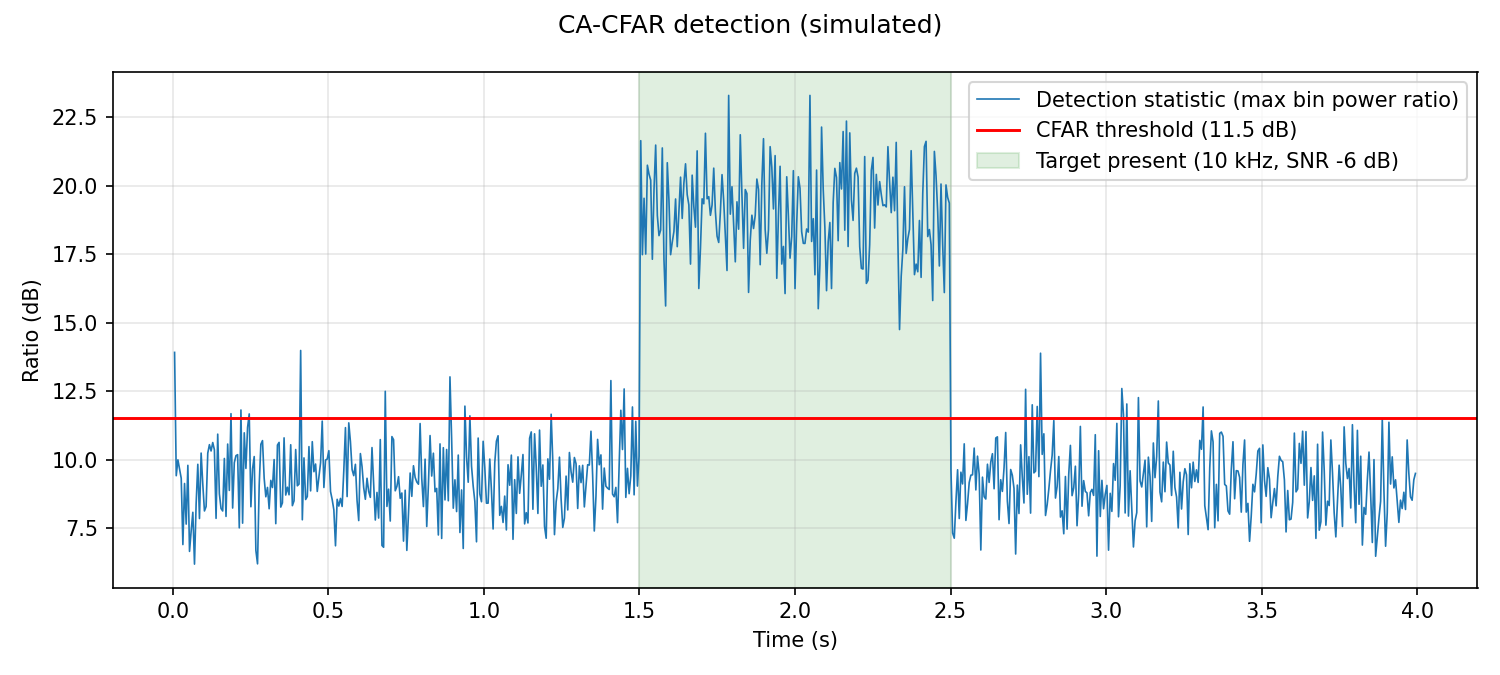
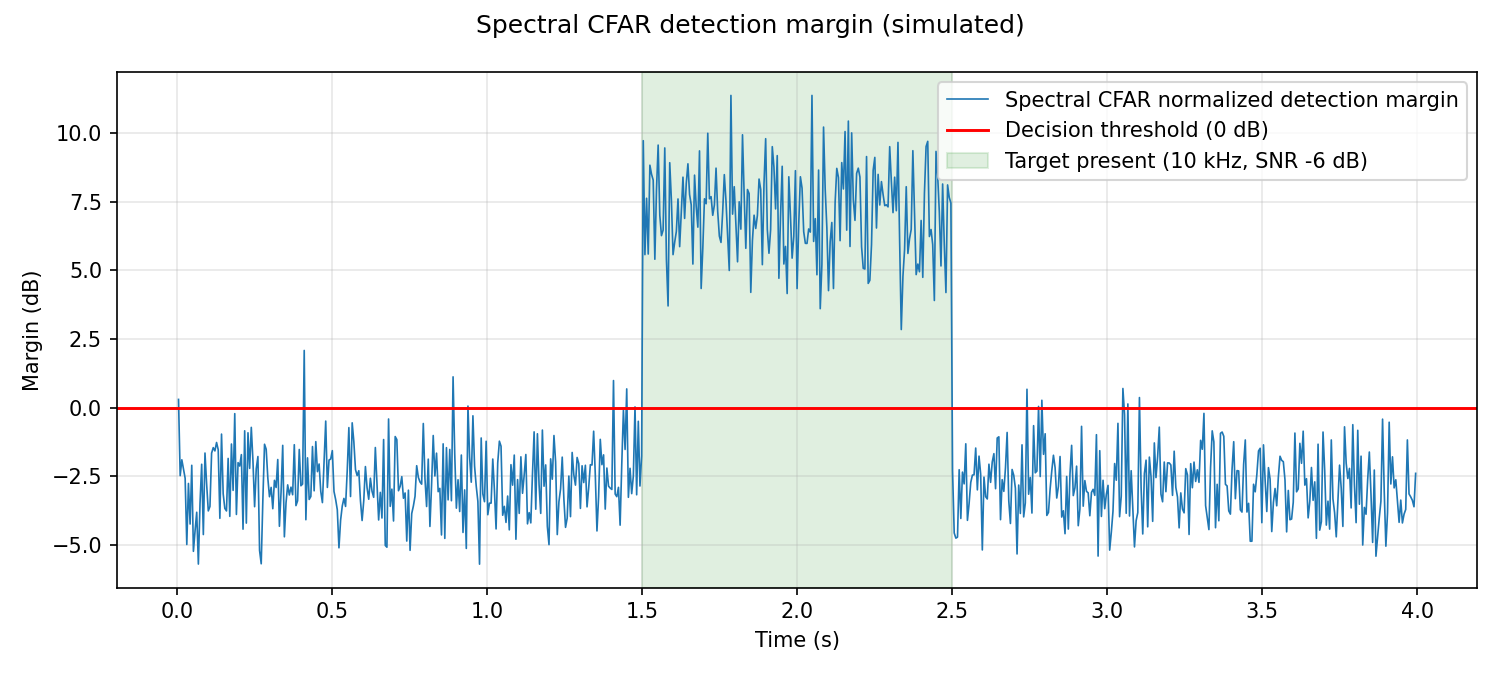
fix: 校正仿真信噪比与CFAR统计口径

diff --git a/run_demo_cfar.py b/run_demo_cfar.py
@@ -43,46 +43,64 @@ def main() -> None:
     t, x = make_scene(-6.0, True, rng)
     alarms, dbg = cfar_detect(x, FS, pfa=1e-2)
     fig, ax = plt.subplots(figsize=(10, 4.5))
-    ax.plot(dbg["t"], dbg["stat"], lw=0.8, label="Detection statistic (max bin power ratio)")
-    ax.axhline(dbg["th_db"], color="r", lw=1.4,
-               label=f"CFAR threshold ({dbg['th_db']:.1f} dB)")
+    ax.plot(dbg["t"], dbg["stat"], lw=0.8,
+            label="Spectral CFAR normalized detection margin")
+    ax.axhline(dbg["th_db"], color="r", lw=1.4, label="Decision threshold (0 dB)")
     ax.axvspan(1.5, 2.5, color="green", alpha=0.12, label="Target present (10 kHz, SNR -6 dB)")
-    ax.set(xlabel="Time (s)", ylabel="Ratio (dB)")
+    ax.set(xlabel="Time (s)", ylabel="Margin (dB)")
     ax.grid(alpha=0.3)
     ax.legend()
-    fig.suptitle("CA-CFAR detection (simulated)")
+    fig.suptitle("Spectral CFAR detection margin (simulated)")
     fig.tight_layout()
     p1 = os.path.join(OUT_DIR, "cfar_scene.png")
     fig.savefig(p1, dpi=150)
     plt.close(fig)
     print(f"场景检出告警数：{len(alarms)}")
     for a in alarms:
-        print(f"  告警 {a['t_start']:.2f}s–{a['t_end']:.2f}s  估计SNR {a['snr_est']:.1f} dB")
+        print(f"  告警 {a['t_start']:.2f}s–{a['t_end']:.2f}s  "
+              f"频谱检测裕量 {a['detection_stat_db']:.1f} dB")
 
-    # 实验 2：检测率/虚警率 vs SNR（蒙特卡洛）
+    # 实验 2：检测率与三种虚警口径；无目标场景与有目标场景分开统计。
     snrs = [-15, -12, -10, -8, -6, -3]
-    pds, pfas = [], []
+    pds, scene_pfas, frame_pfas = [], [], []
     trials = 40
+    scene_duration = 4.0
     for snr in snrs:
-        det, fa = 0, 0
+        det, scene_fa = 0, 0
+        false_frames, total_frames, false_alarms = 0, 0, 0
         for _ in range(trials):
             _, x1 = make_scene(snr, True, rng)
             a1, _ = cfar_detect(x1, FS, pfa=1e-2)
             det += int(any(a["t_start"] < 2.6 and a["t_end"] > 1.4 for a in a1))
             _, x0 = make_scene(snr, False, rng)
-            a0, _ = cfar_detect(x0, FS, pfa=1e-2)
-            fa += int(len(a0) > 0)
+            a0, d0 = cfar_detect(x0, FS, pfa=1e-2)
+            scene_fa += int(len(a0) > 0)
+            false_alarms += len(a0)
+            false_frames += int(np.count_nonzero(d0["frame_hit"]))
+            total_frames += len(d0["frame_hit"])
         pds.append(det / trials)
-        pfas.append(fa / trials)
-        print(f"SNR {snr:+3d} dB | 检测率 {det/trials:.2f} | 虚警率 {fa/trials:.2f}")
+        scene_pfas.append(scene_fa / trials)
+        frame_pfas.append(false_frames / total_frames)
+        alarms_per_hour = false_alarms / (trials * scene_duration) * 3600.0
+        print(f"SNR {snr:+3d} dB | 检测率 {det/trials:.2f} | "
+              f"场景级虚警概率 {scene_fa/trials:.2f} | "
+              f"帧级虚警率 {false_frames/total_frames:.5f} | "
+              f"虚警 {alarms_per_hour:.1f} 次/小时")
 
-    fig, ax = plt.subplots(figsize=(8, 4.5))
-    ax.plot(snrs, pds, "o-", label="Probability of detection")
-    ax.plot(snrs, pfas, "s--", label="False alarm rate (no-target scenes)")
-    ax.axhline(0.01, color="r", ls=":", alpha=0.6, label="Design Pfa = 0.01")
-    ax.set(xlabel="SNR (dB)", ylabel="Probability", ylim=(-0.03, 1.05))
-    ax.grid(alpha=0.3)
-    ax.legend()
+    fig, axes = plt.subplots(1, 2, figsize=(12, 4.5))
+    axes[0].plot(snrs, pds, "o-", label="Probability of detection")
+    axes[0].plot(snrs, scene_pfas, "s--", label="Scene false-alarm probability")
+    axes[0].set(xlabel="SNR (dB)", ylabel="Probability", ylim=(-0.03, 1.05),
+                title="Event and scene level")
+    axes[1].plot(snrs, frame_pfas, "o-", color="tab:purple",
+                 label="Measured frame false-alarm rate")
+    axes[1].axhline(0.01, color="r", ls=":", alpha=0.6,
+                    label="Design frame Pfa = 0.01")
+    axes[1].set(xlabel="SNR (dB)", ylabel="Frame false-alarm rate",
+                title="Frame level")
+    for ax in axes:
+        ax.grid(alpha=0.3)
+        ax.legend()
     fig.suptitle(f"CFAR performance, Monte Carlo x{trials} (simulated)")
     fig.tight_layout()
     p2 = os.path.join(OUT_DIR, "cfar_pd_pfa.png")

diff --git a/src/detect/cfar.py b/src/detect/cfar.py
@@ -7,9 +7,10 @@
 为什么不沿时间做 CFAR：持续型目标（如持续的舰船线谱）会被时间参考窗
 "吸收"进背景，导致检不出；沿频率做则不受目标持续时间影响。
 
-虚警率分配：帧级虚警率 pfa，F 个参与检测的频点，
-单频点虚警率 pfa_cell = pfa / F（独立近似）。
+虚警率分配：频谱与能量通道各占帧级预算 pfa/2；频谱通道有 F 个频点，
+单频点预算 pfa_cell = (pfa/2) / F，按并集上界分配，不假设频点相互独立。
 门限系数 α = N·(pfa_cell^(-1/N) - 1)，N 为参考频点数。
+该公式仍采用平方律单元服从指数分布的 CA-CFAR 近似，实际虚警率需实验校准。
 """
 import numpy as np
 
@@ -63,15 +64,18 @@ def cfar_detect(x_mono: np.ndarray, fs: float, frame_len: int = 1024,
     谱线因另一侧窗口越界而被直接跳过。至少连续 min_frames 帧才形成告警。
 
     返回 (alarms, debug)：
-        alarms: list[dict]，含 t_start/t_end/snr_est（秒、dB）
-        debug:  dict(t, stat, th_db)，stat 为每帧最大频点功率比（dB）
+        alarms: list[dict]，含 t_start/t_end/detection_stat_db（秒、dB）
+        debug:  dict(t, stat, th_db, frame_hit)；stat 为归一化检测裕量，
+                统一以 0 dB 为判决门限，frame_hit 为成形告警前的原始帧命中。
     """
     P, freqs, t = stft_power(x_mono, frame_len, hop, fs)
     band = (freqs >= f_range[0]) & (freqs <= f_range[1])
     Pb = P[band, :]                                  # (Fb, T)
     Fb, T = Pb.shape
 
-    pfa_cell = pfa / Fb
+    pfa_spectral = pfa / 2
+    pfa_energy = pfa / 2
+    pfa_cell = pfa_spectral / Fb
 
     # 沿频率估计背景；边缘频点保留可用的单侧参考窗，跳过 guard。
     C = np.concatenate([np.zeros((1, T)), np.cumsum(Pb, axis=0)], axis=0)
@@ -89,11 +93,12 @@ def cfar_detect(x_mono: np.ndarray, fs: float, frame_len: int = 1024,
         ratio = Pb / bg
         ratio[~np.isfinite(ratio)] = 0.0
     hit = (ratio > alpha[:, None]) & valid[:, None]
-    stat = 10 * np.log10(np.where(valid[:, None], ratio, 0.0).max(axis=0) + 1e-20)
+    margin = np.where(valid[:, None], ratio / alpha[:, None], 0.0)
+    stat = 10 * np.log10(margin.max(axis=0) + 1e-20)
 
     frame_hit = hit.any(axis=0)
-    # 宽带能量通道（虚警率预算对半分）
-    e_hit, _ = _energy_cfar_hits(Pb, pfa / 2)
+    # 两个通道各使用一半帧级虚警率预算，按并集上界控制总预算。
+    e_hit, _ = _energy_cfar_hits(Pb, pfa_energy)
     frame_hit = frame_hit | e_hit
     alarms = []
     i = 0
@@ -105,7 +110,7 @@ def cfar_detect(x_mono: np.ndarray, fs: float, frame_len: int = 1024,
             if j - i + 1 >= min_frames:
                 alarms.append(dict(
                     t_start=float(t[i]), t_end=float(t[j]),
-                    snr_est=float(np.max(stat[i:j + 1])),
+                    detection_stat_db=float(np.max(stat[i:j + 1])),
                 ))
             i = j + 1
         else:
@@ -116,8 +121,8 @@ def cfar_detect(x_mono: np.ndarray, fs: float, frame_len: int = 1024,
         if merged and a["t_start"] - merged[-1]["t_end"] <= merge_gap:
             m = merged[-1]
             m["t_end"] = a["t_end"]
-            m["snr_est"] = max(m["snr_est"], a["snr_est"])
+            m["detection_stat_db"] = max(m["detection_stat_db"], a["detection_stat_db"])
         else:
             merged.append(dict(a))
-    nominal_alpha = (2 * ref) * (pfa_cell ** (-1.0 / (2 * ref)) - 1.0)
-    return merged, dict(t=t, stat=stat, th_db=10 * np.log10(nominal_alpha))
+    return merged, dict(t=t, stat=stat, th_db=0.0, frame_hit=frame_hit.copy(),
+                        pfa_spectral=pfa_spectral, pfa_energy=pfa_energy)

diff --git a/tests/test_detection_pipeline.py b/tests/test_detection_pipeline.py
@@ -13,17 +13,59 @@ class DetectionPipelineTests(unittest.TestCase):
     def test_add_source_writes_late_event_at_requested_time(self):
         """晚于源信号时长的事件也必须真实写入目标时间窗。"""
         n = int(6.0 * FS)
-        x_all = np.zeros((4, n))
         rng = np.random.default_rng(3)
+        background = 0.5 * rng.standard_normal((4, n))
+        x_all = background.copy()
         sig = fish(duration=1.0, rng=rng)
         start = int(4.0 * FS)
 
         add_source(x_all, sig, bearing_deg=120.0, t0=4.0, snr_db=0.0, rng=rng)
 
-        written = x_all[:, start:start + len(sig)]
-        self.assertGreater(float(np.std(written)), 0.5)
-        self.assertEqual(int(np.count_nonzero(x_all[:, :start])), 0)
-        self.assertEqual(int(np.count_nonzero(x_all[:, start + len(sig):])), 0)
+        written = x_all[:, start:start + len(sig)] - background[:, start:start + len(sig)]
+        self.assertGreater(float(np.std(written)), 0.1)
+        np.testing.assert_array_equal(x_all[:, :start], background[:, :start])
+        np.testing.assert_array_equal(x_all[:, start + len(sig):],
+                                      background[:, start + len(sig):])
+
+    def test_add_source_matches_requested_snr(self):
+        """正负荷标称 SNR 都必须等于实际加入的信号/背景功率比。"""
+        for snr_db in (-6.0, 0.0, 6.0):
+            with self.subTest(snr_db=snr_db):
+                rng = np.random.default_rng(5)
+                n = int(3.0 * FS)
+                background = 0.5 * rng.standard_normal((4, n))
+                x_all = background.copy()
+                sig = fish(duration=1.0, rng=rng)
+                start = int(FS)
+
+                add_source(x_all, sig, 120.0, 1.0, snr_db, rng)
+
+                sl = slice(start, start + len(sig))
+                added_power = np.mean((x_all[:, sl] - background[:, sl]) ** 2)
+                noise_power = np.mean(background[:, sl] ** 2)
+                actual_snr_db = 10 * np.log10(added_power / noise_power)
+                self.assertAlmostEqual(actual_snr_db, snr_db, delta=0.05)
+
+    def test_cfar_exposes_detection_margin_and_frame_hits(self):
+        """检测输出使用统一裕量及原始帧命中，不冒充 SNR 估计。"""
+        rng = np.random.default_rng(8)
+        n = int(4.0 * FS)
+        t = np.arange(n) / FS
+        x = 0.5 * rng.standard_normal(n)
+        mask = (t >= 1.5) & (t <= 2.5)
+        x[mask] += 0.3 * np.sin(2 * np.pi * 10_000.0 * t[mask])
+
+        alarms, dbg = cfar_detect(x, FS, pfa=1e-2)
+
+        self.assertTrue(alarms)
+        self.assertIn("detection_stat_db", alarms[0])
+        self.assertNotIn("snr_est", alarms[0])
+        self.assertIn("frame_hit", dbg)
+        self.assertEqual(dbg["th_db"], 0.0)
+        self.assertIn("pfa_spectral", dbg)
+        self.assertIn("pfa_energy", dbg)
+        self.assertEqual(dbg["pfa_spectral"], 0.005)
+        self.assertEqual(dbg["pfa_energy"], 0.005)
 
     def test_cfar_detects_low_frequency_line_at_band_edge(self):
         """300 Hz 弱线谱不能因参考窗触及低频边界而漏检。"""

diff --git a/run_pipeline.py b/run_pipeline.py
@@ -30,7 +30,7 @@ EVENTS = [
 
 
 def add_source(x_all, sig, bearing_deg, t0, snr_db, rng):
-    """把单通道源信号按方位角加入四通道阵列（频域分数时延）。"""
+    """加入分数时延声源，SNR 定义为加入信号与当前背景的功率比。"""
     n = len(sig)
     pos = element_positions(R)
     u = np.array([np.cos(np.deg2rad(bearing_deg)), np.sin(np.deg2rad(bearing_deg))])
@@ -38,10 +38,13 @@ def add_source(x_all, sig, bearing_deg, t0, snr_db, rng):
     freqs = np.fft.rfftfreq(n, 1 / FS)
     S = np.fft.rfft(sig)
     start = int(t0 * FS)
-    scale = np.sqrt(np.mean(sig ** 2) / (10 ** (snr_db / 10.0)))
+    target = slice(start, start + n)
+    snr_lin = 10 ** (snr_db / 10.0)
     for i in range(4):
         delayed = np.fft.irfft(S * np.exp(-1j * 2 * np.pi * freqs * taus[i]), n=n)
-        x_all[i, start:start + n] += scale * delayed
+        background_power = np.mean(x_all[i, target] ** 2)
+        scale = np.sqrt(background_power * snr_lin / (np.mean(delayed ** 2) + 1e-20))
+        x_all[i, target] += scale * delayed
 
 
 def select_doa_band(X, freqs, f_min=80.0, f_max=24_000.0, half_width=1500.0):

diff --git a/docs/algorithm-framework.md b/docs/algorithm-framework.md
@@ -10,7 +10,7 @@
    │  x: (4, N) 时域波形, fs=96000 Hz
    ▼
 [detect] CFAR 检测 ──无异常──▶ 继续监听
-   │ 有异常 → AlarmEvent{t_start, t_end, snr_est}
+   │ 有异常 → AlarmEvent{t_start, t_end, detection_stat_db}
    ▼
 [doa] 方位估计（CBF / MUSIC）
    │  → bearing_deg, spectrum(方位谱), confidence
@@ -48,9 +48,10 @@
 ### detect —— CFAR 异常检测（✅ 已完成，仿真验证）
 - 文件：`src/detect/cfar.py`
 - 接口：`cfar_detect(x, fs, frame_len=1024, hop=512, pfa=1e-2) -> (alarms, debug)`
-- 原理：频率向谱线 CFAR + 时间向宽带能量 CFAR 双通道；低频边缘使用单侧参考窗，门限随背景自适应
-- 验收图：检测统计量+门限图；检测率/虚警率随 SNR 变化曲线（当前每个 SNR 蒙特卡洛 40 次）
-- `AlarmEvent = dict(t_start, t_end, snr_est)`（字段写入数据接口规范）
+- 原理：频率向谱线 CFAR + 时间向宽带能量 CFAR 双通道，各占 `pfa/2`；低频边缘使用单侧参考窗，门限随背景自适应
+- 验收图：归一化检测裕量+0 dB 门限；分别报告检测率、场景级虚警概率、帧级虚警率与虚警次数/小时（当前每个 SNR 蒙特卡洛 40 次）
+- 校准状态：当前实测帧级虚警率高于标称值，标称 `pfa` 只代表设计预算，不作为实测性能
+- `AlarmEvent = dict(t_start, t_end, detection_stat_db)`（字段写入数据接口规范）
 
 ### doa —— 方位估计（✅ 已完成）
 - 文件：`src/doa/cbf.py`、`src/doa/music.py`
@@ -78,8 +79,8 @@
 ### pipeline —— 主控串联（✅ 已完成，仿真验证）
 - 文件：`run_pipeline.py`
 - 逻辑：参考通道 CFAR 检测 → 告警定长分析窗 → 四通道 CBF → MLP 分类 → 输出告警
-- 终端输出格式：`【告警】1.01s–3.00s | 方位 61.4° | 类型 ship | 置信度 1.00`
-- 回归：`python -m unittest discover -s tests -v` 当前 5 项全部通过
+- 终端输出示例：`【告警】1.01s–3.00s | 方位 60.9° | 类型 ship | 置信度 1.00`（置信度为未校准 softmax 分数）
+- 回归：`python -m unittest discover -s tests -v` 当前 7 项全部通过
 
 ## 4. 答辩图清单（每张图对应一个脚本，完成即打勾）
 

diff --git a/docs/handoff.md b/docs/handoff.md
@@ -5,6 +5,27 @@
 
 ---
 
+## 2026-11-20（第二次修正）· SNR 与 CFAR 统计口径审查修正
+
+**审查发现并已修复**
+- `add_source()` 原 SNR 公式方向错误且未使用背景功率：旧场景中 ship/human/fish 标称 6/3/0 dB，实测约 0.02/3.02/6.02 dB。现在逐通道按 `背景功率 × snr_lin ÷ 时延后信号功率` 缩放；-6/0/6 dB 三组自动化实测均在 0.05 dB 误差内。
+- 告警字段 `snr_est` 改为 `detection_stat_db`：它只是检测统计量，不是输入 SNR。频谱调试输出改为“功率比÷对应 CFAR 门限”的归一化裕量，统一 0 dB 判决线，并提供原始 `frame_hit`。
+- 频谱与能量通道现在各分配 `pfa/2`，按并集上界控制总帧级预算；代码明确保留平方律指数分布近似，不再声称频点独立假设已经成立。
+- `run_demo_cfar.py` 分开统计检测率、场景级虚警概率、帧级虚警率与虚警次数/小时；场景级指标不再直接和帧级设计 Pfa 画成同一口径。
+
+**最新真实结果（全部为仿真数据）**
+- 7 项 unittest 全部通过。
+- `run_pipeline.py` 共 3 段告警：ship 1.01–3.00 s、60.9°、1.00；human 4.50–4.52 s、120.3°、1.00；fish 6.11–6.13 s、250.2°、0.95。类别均正确，最后一个数值是未校准的 MLP softmax 分数，不是现实置信度。
+- CFAR 每个 SNR 40 次：-15 dB 检测率降为 0.53，-12～-3 dB 均 1.00；各档场景级虚警概率和成形虚警次数/小时本轮均为 0；**帧级虚警率实测 0.0217–0.0229，高于标称 0.01**，说明门限模型尚未校准，不能宣称实测 Pfa=0.01。
+- 0 次场景虚警只代表本轮 40 个无目标场景未出现成形告警，不证明真实概率为 0。
+
+**下一步**
+1. 分析帧级虚警偏高的通道来源，必要时用更广分布模型或实测门限校准，不能为通过图而隐藏该结果。
+2. 扩展多角度、多 SNR、多目标与真实公开数据验证；当前仍是单场景仿真 demo。
+3. 上述口径固定后再做可视化，页面使用“检测统计量”“模型得分”等准确名称。
+
+---
+
 ## 2026-11-20 · 全链路流水线修复并通过回归
 
 **做了什么**
